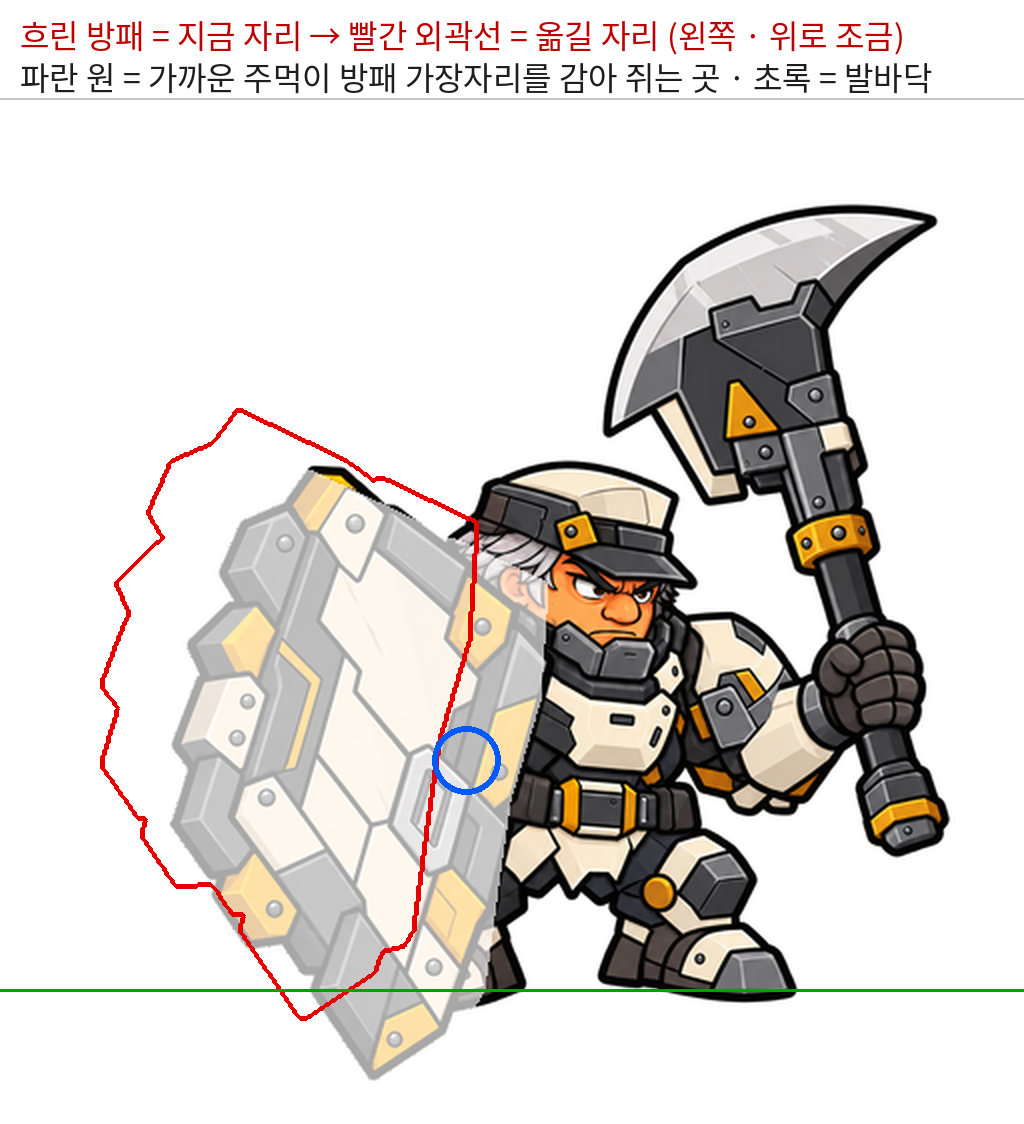
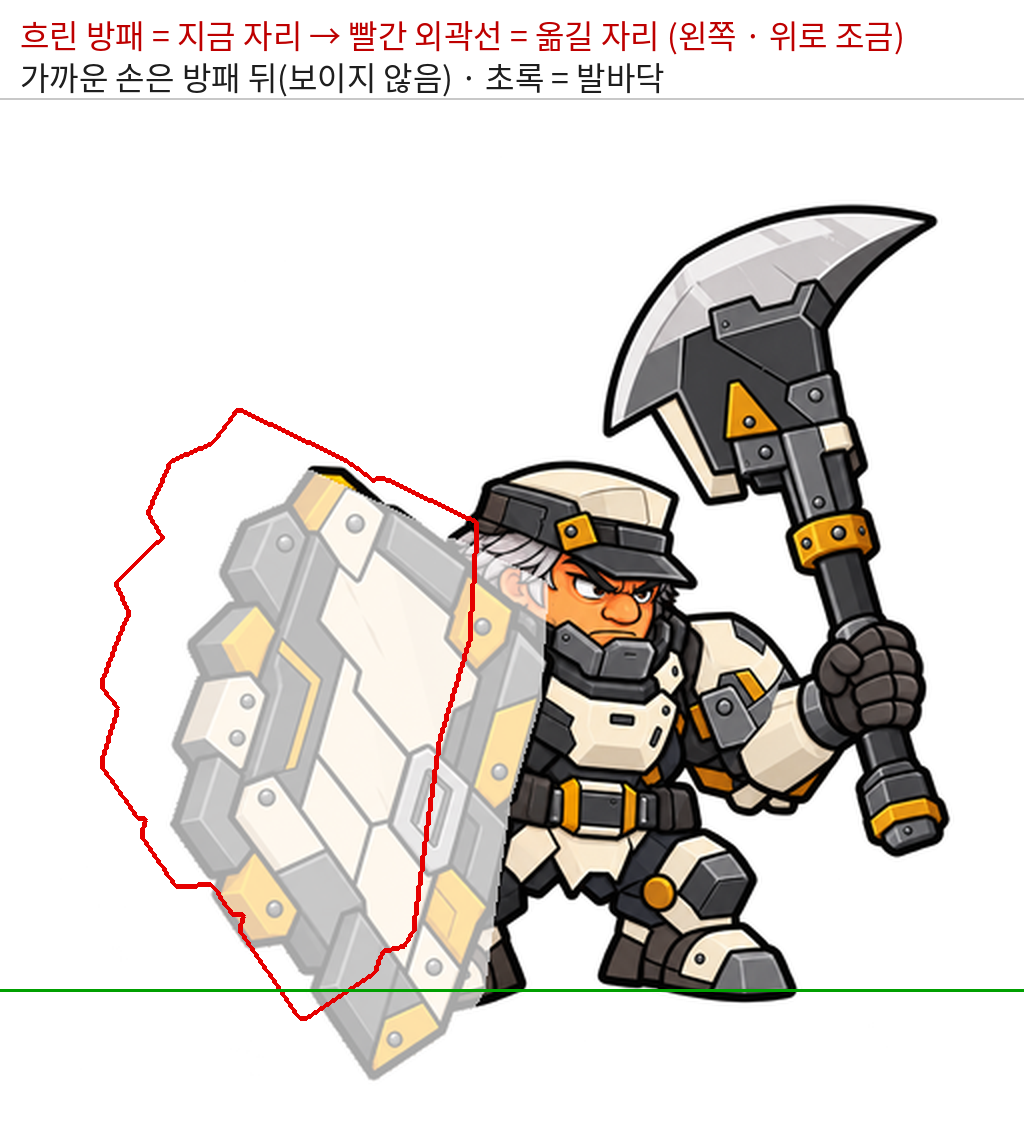
17 네온 루시아: 프롬프트 0-3b — 방패 쥔 손은 방패 뒤(DHL 09:43 '손가락이 보이면 이상'), 가이드 주먹 원 뺌
Claude-Session: https://claude.ai/code/session_015ytCrWApV92AMmnGMogyWc

Changed region(s): [[0.0312, 0.0311, 0.9062, 0.0934], [0.4062, 0.6539, 0.5, 0.7162], [0.4375, 0.6228, 0.4688, 0.6539]]

diff --git a/assets/rig/lucia-neon/source/tools/guide_shield17b.py b/assets/rig/lucia-neon/source/tools/guide_shield17b.py
@@ -1,6 +1,7 @@
 """17 네온 루시아 — 프롬프트 0-3 첨부 2: DHL 09:25 손으로 고친 그림 위에 '옮길 방패 자리'(빨간 외곽선)·가까운 주먹 자리(파란 원)·발바닥(초록)
   방패 외곽 = 09:25 그림에서 방패 윗변 선 아래 · 오른쪽 가장자리 선 왼쪽의 불투명 부분(격자 5배로 읽은 점) → (DX, DY) 만큼 옮김
   옮기는 양 = 러스트 루시아 방패(shield_vs_rust17)와 09:25 사이: 왼쪽 35 · 위 30 → 아래 끝 489 → 459(발바닥 445 + 14)
+  가까운 손 = 방패 뒤 손잡이를 쥐어 안 보임(DHL 09:43 '방패를 들었는데 손가락이 보이면 이상해요') — 주먹 자리 원은 뺌
 실행: python3 -I guide_shield17b.py
 """
 import os
@@ -25,12 +26,10 @@ cs, _ = cv2.findContours(tgt, cv2.RETR_EXTERNAL, cv2.CHAIN_APPROX_SIMPLE)
 for c in cs:
     pts = [(int(p[0][0] * K), int(p[0][1] * K)) for p in c]
     if len(pts) > 2: d.line(pts + [pts[0]], fill=(230, 0, 0), width=5)
-FX = 233; FY = 330; R = 17                                           # 옮긴 방패 오른쪽 가장자리(배 높이) 바로 오른쪽
-d.ellipse([(FX - R) * K, (FY - R) * K, (FX + R) * K, (FY + R) * K], outline=(0, 90, 255), width=6)
 d.line([(0, 445 * K), (512 * K, 445 * K)], fill=(0, 160, 0), width=3)
 f = ImageFont.truetype('/usr/share/fonts/truetype/noto/NotoSansCJK-Regular.ttc', 32)
 BH = 100; out = Image.new('RGB', (512 * K, 512 * K + BH), (255, 255, 255)); out.paste(W, (0, BH)); dd = ImageDraw.Draw(out)
 dd.text((20, 10), '흐린 방패 = 지금 자리 → 빨간 외곽선 = 옮길 자리 (왼쪽 · 위로 조금)', fill=(190, 0, 0), font=f)
-dd.text((20, 52), '파란 원 = 가까운 주먹이 방패 가장자리를 감아 쥐는 곳 · 초록 = 발바닥', fill=(30, 30, 30), font=f)
+dd.text((20, 52), '가까운 손은 방패 뒤(보이지 않음) · 초록 = 발바닥', fill=(30, 30, 30), font=f)
 dd.line([(0, BH - 2), (512 * K, BH - 2)], fill=(200, 200, 200), width=2)
 out.save(os.path.join(SRC, 'refs', 'ref_shield_move17b.png')); print('저장 refs/ref_shield_move17b.png')

diff --git a/assets/rig/lucia-neon/STATUS.md b/assets/rig/lucia-neon/STATUS.md
@@ -74,3 +74,18 @@
 
 합격선: 방패가 첨부 2 빨간 외곽선 자리 · 방패 아래 끝이 발바닥보다 조금만 아래 · 가까운 주먹 손가락 4개가 방패 가장자리를 감아 쥠 · 방패와 몸 사이 경계가 또렷(어깨갑·가슴 판이 보임) · 얼굴 안 가림 · 가까운 부츠 온전 · 나머지는 첨부 1과 같음 · 투명 배경, 잘린 곳 없음
 ```
+
+### 프롬프트 0-3b — 손 숨김으로 고침 (DHL 09:43 '방패를 들었는데 손가락이 보이면 이상해요' — 가까운 손 = 방패 뒤 손잡이, 안 보임. 가이드 파란 원 뺌: 같은 파일 `source/refs/ref_shield_move17b.png`)
+- 리그: 방패는 가까운 팔(숨은 팔뚝·손목) 뼈에 붙임 — 보이는 주먹 조각 없음(러스트 handN 은 안 씀)
+```
+첨부 1(17 네온 루시아)을 고쳐 주세요 — 방패 자리만 바꾸고, 나머지는 첨부 1과 픽셀 그대로. 512×512, 투명 배경, 캐릭터 크기·자리는 첨부 1과 같게(첨부 2의 글씨·빨간 선·초록 줄은 그림에 넣지 마세요).
+
+- 방패: 모양·크기·기울기는 첨부 1 방패 그대로, 자리만 첨부 2 빨간 외곽선으로 옮김(지금보다 왼쪽으로 조금, 위로 조금). 방패 아래 끝은 발바닥(첨부 2 초록 줄)보다 조금만 아래 — 땅에 박혀 보이지 않게.
+- 가까운 손: 방패 뒤 안쪽 손잡이를 쥐고 있어 보이지 않음 — 손가락·주먹·팔뚝을 방패 밖으로 그리지 마세요. 방패는 몸 앞에서 가까운 팔에 받쳐 든 모습.
+- 방패가 비켜서 드러나는 곳(방패 오른쪽 가장자리와 얼굴 사이): 크림색 가까운 어깨갑, 가슴 크림 판의 왼쪽 끝, 짙은 회색 속옷 — 첨부 1에 보이는 갑옷 무늬·색·선이 끊김 없이 이어지게. 얼굴·머리카락은 방패에 가려지지 않게.
+- 방패가 비켜서 드러나는 아래쪽: 가까운 무릎판·부츠를 온전한 모양으로(첨부 1 먼 다리·먼 부츠와 같은 그림체, 두 발바닥이 같은 땅).
+- 방패 밖 왼쪽·아래는 투명 배경.
+- 나머지(모자·머리·얼굴·목 가리개·먼 팔·도끼·허리띠·먼 다리·먼 부츠)는 첨부 1과 같은 자리·크기·색.
+
+합격선: 방패가 첨부 2 빨간 외곽선 자리 · 방패 아래 끝이 발바닥보다 조금만 아래 · 가까운 손은 방패 뒤(손가락 안 보임) · 방패와 몸 사이 경계가 또렷(어깨갑·가슴 판이 보임) · 얼굴 안 가림 · 가까운 부츠 온전 · 나머지는 첨부 1과 같음 · 투명 배경, 잘린 곳 없음
+```
